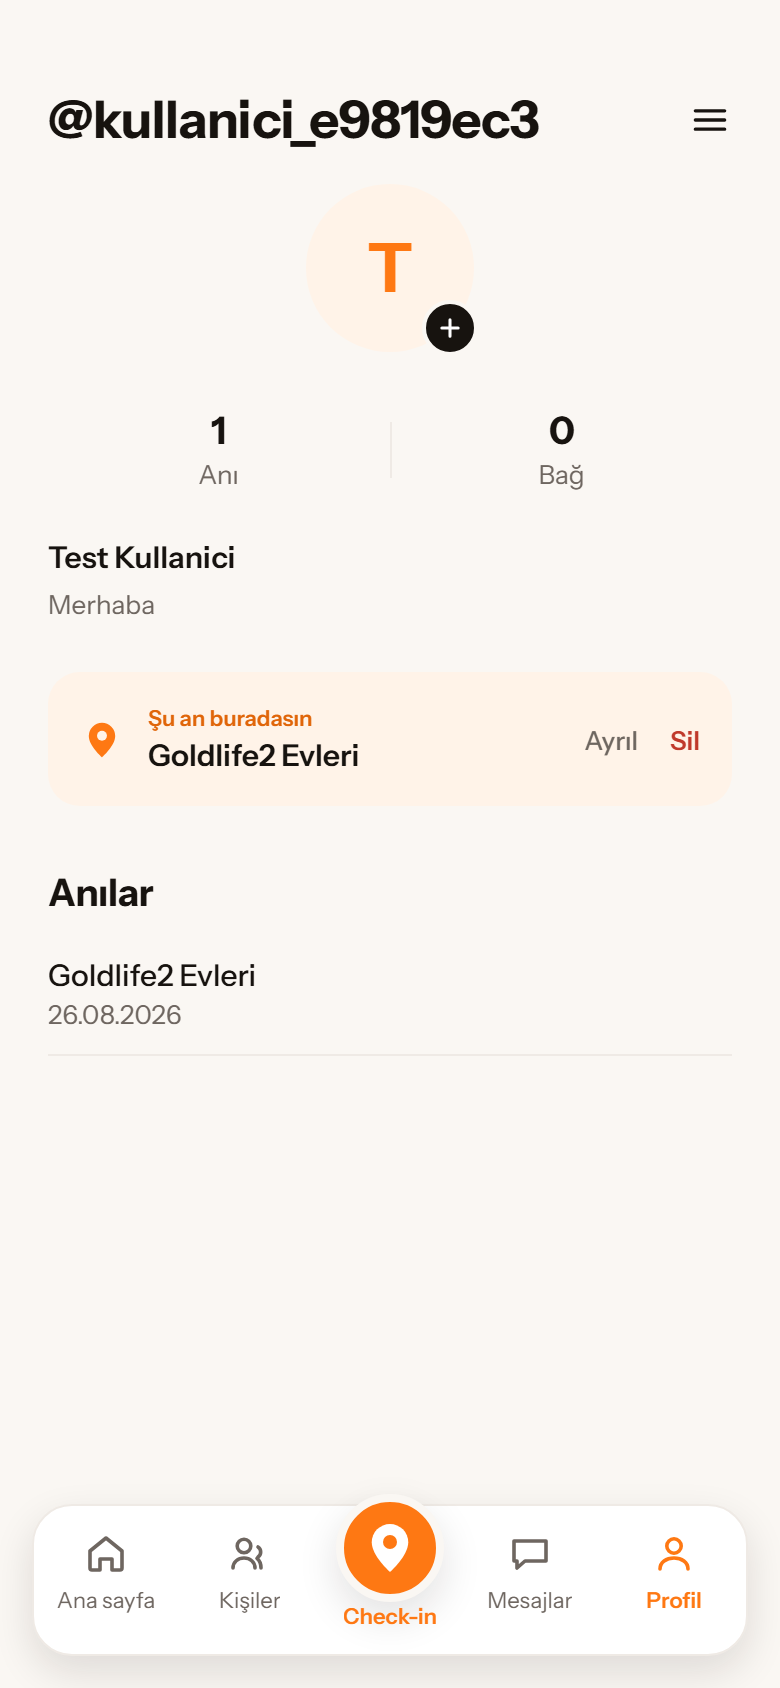
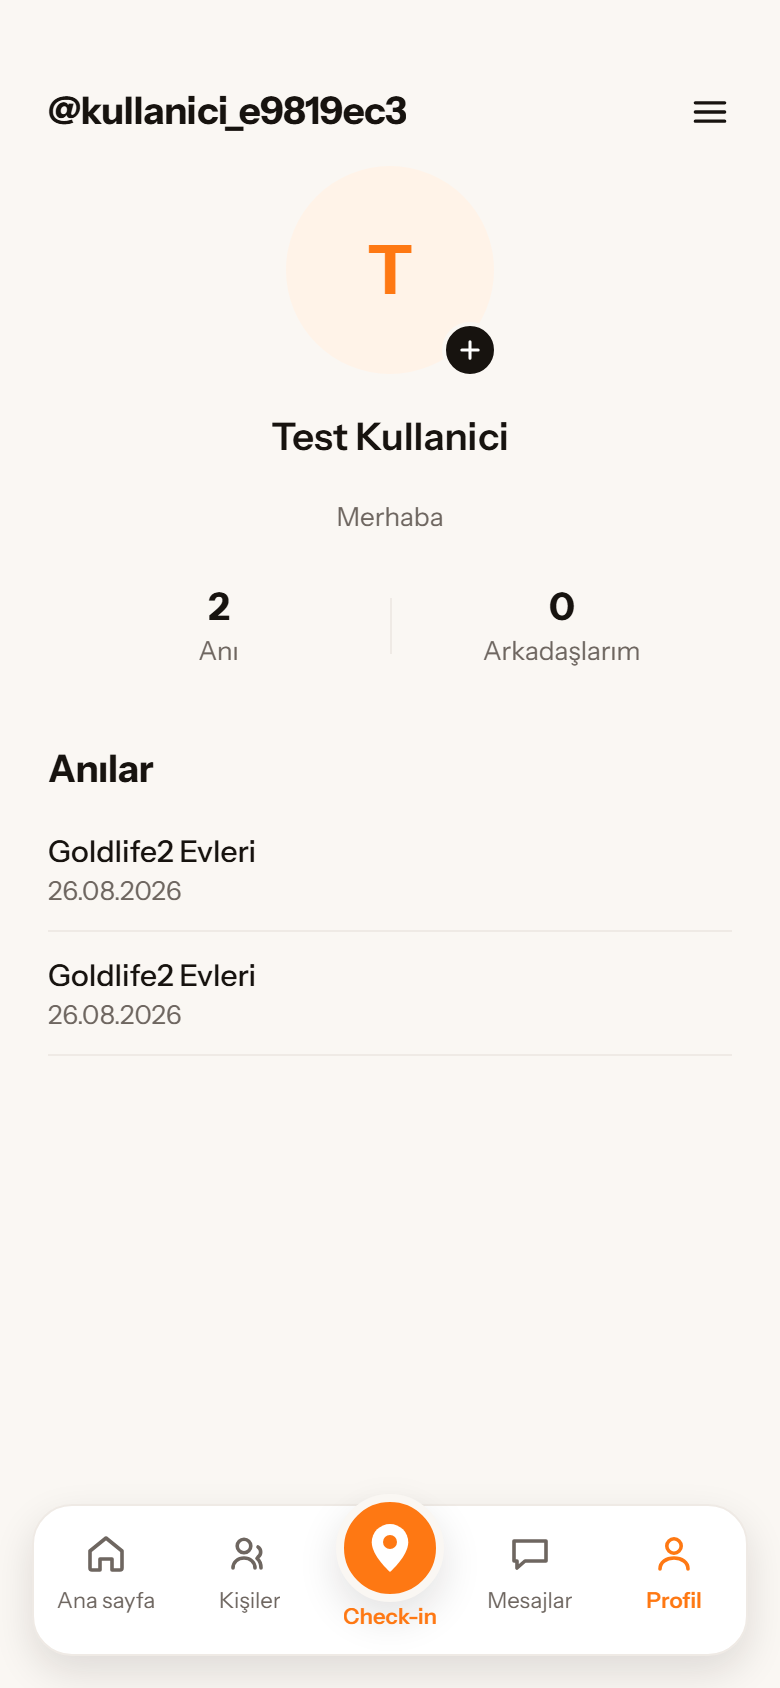
feat(profil): kimlik blogu yeniden duzenlendi
Kullanicinin istegi (2026-08-27):

- Ustteki @kullaniciadi KUCULDU (baslik -> altBaslik). Baslik
  boyutunda sayfanin en agir ogesiydi ve profil fotografiyla
  yarisiyordu.
- AVATAR BUYUDU (84 -> 104). Profilin capasi o.
- AD VE BIYOGRAFI avatarin hemen altina, ORTALI. Onceden sayilarin
  altinda ve sola dayaliydi.
- "Şu an bir yerde değilsin" KARTI KALDIRILDI. Check-in'e giris artik
  alt cubugun ortasindaki turuncu dugmede; profilde ikinci bir cagri
  gerekmiyordu. Canli check-in VARKEN serit yerinde duruyor -
  kaldirilan yalnizca bos durum karti.
- "Bağ" -> "Arkadaşlarım".

Test guncellendi: eski test bos durumdaki dugmeye basiyordu; yerine
"canli check-in yoksa hicbir serit ya da kart cizilmiyor" dogrulamasi
kondu.

Testler: jest 51 paket / 446 test yesil, tsc temiz, desen taramasi temiz.

diff --git a/mobil/src/app/profil/index.tsx b/mobil/src/app/profil/index.tsx
@@ -264,6 +264,12 @@ export default function ProfilEkrani() {
                 <Text style={stiller.fotografDurumu}>Yükleniyor…</Text>
               )}
 
+              {/* Ad ve biyografi AVATARIN HEMEN ALTINDA ve ortali
+                  (kullanicinin istegi 2026-08-27). Onceden sayilarin
+                  altinda ve sola dayaliydi. */}
+              <Text style={stiller.ad}>{profil.ad}</Text>
+              {profil.biyografi && <Text style={stiller.biyografi}>{profil.biyografi}</Text>}
+
               <View style={stiller.sayilar}>
                 <Pressable
                   style={stiller.sayiHucre}
@@ -285,8 +291,6 @@ export default function ProfilEkrani() {
               </View>
             </View>
 
-            <Text style={stiller.ad}>{profil.ad}</Text>
-            {profil.biyografi && <Text style={stiller.biyografi}>{profil.biyografi}</Text>}
 
             {aktifCheckIn ? (
               <>
@@ -333,20 +337,7 @@ export default function ProfilEkrani() {
                 </View>
               )}
               </>
-            ) : (
-              <View style={stiller.kart}>
-                <Text style={stiller.kartBaslik}>{t('profil.bosCanliBaslik')}</Text>
-                <Text style={stiller.kartAciklama}>{t('profil.bosCanliAciklama')}</Text>
-                {/* Sayfanin tek birincil turuncu eylemi. */}
-                <Pressable
-                  style={stiller.birincil}
-                  onPress={() => router.push('/mekanlar')}
-                  accessibilityRole="button"
-                >
-                  <Text style={stiller.birincilYazi}>{t('profil.checkInYap')}</Text>
-                </Pressable>
-              </View>
-            )}
+            ) : null}
 
             <View style={stiller.bolumBasligi}>
               <Text style={stiller.bolumAd} accessibilityRole="header">
@@ -443,9 +434,11 @@ const stiller = StyleSheet.create({
   kullaniciAdi: {
     flexShrink: 1,
     fontFamily: yazi.ekranBasligi,
-    fontSize: olcek.baslik,
+    // Kucultuldu (kullanicinin istegi 2026-08-27): baslik boyutunda
+    // sayfanin en agir ogesiydi ve profil fotografiyla yarisiyordu.
+    fontSize: olcek.altBaslik,
     color: renk.metin,
-    letterSpacing: -0.4,
+    letterSpacing: -0.3,
   },
 
   hata: {
@@ -480,7 +473,8 @@ const stiller = StyleSheet.create({
     fontSize: olcek.minik,
     color: renk.metinIkincil,
   },
-  avatar: { width: 84, height: 84, borderRadius: 42 },
+  // Buyutuldu (kullanicinin istegi 2026-08-27): profilin capasi bu.
+  avatar: { width: 104, height: 104, borderRadius: 52 },
   avatarYok: {
     backgroundColor: renk.turuncuZemin,
     alignItems: 'center',
@@ -510,16 +504,17 @@ const stiller = StyleSheet.create({
 
   ad: {
     fontFamily: yazi.govdeKalin,
-    fontSize: olcek.govde,
+    fontSize: olcek.altBaslik,
     color: renk.metin,
-    marginTop: bosluk.l,
+    textAlign: 'center',
   },
   biyografi: {
     fontFamily: yazi.govde,
     fontSize: olcek.kucuk,
     lineHeight: 20,
     color: renk.metinIkincil,
-    marginTop: bosluk.xs,
+    textAlign: 'center',
+    marginTop: 2,
   },
 
   // Canli serit: ekranin imza ogesi. Turuncu nokta "su an oluyor" der.

diff --git a/mobil/__tests__/ekranlar/profil/index.test.tsx b/mobil/__tests__/ekranlar/profil/index.test.tsx
@@ -81,7 +81,7 @@ describe('ProfilEkrani', () => {
     expect(await screen.findByText('2')).toBeTruthy()
     expect(screen.getByText('Anı')).toBeTruthy()
     expect(screen.getByText('1')).toBeTruthy()
-    expect(screen.getByText('Bağ')).toBeTruthy()
+    expect(screen.getByText('Arkadaşlarım')).toBeTruthy()
   })
 
   it('canli check-in varsa mekan adiyla serit gosterir', async () => {
@@ -103,12 +103,16 @@ describe('ProfilEkrani', () => {
     expect(screen.getByText('Kordon')).toBeTruthy()
   })
 
-  it('canli check-in yoksa check-in yapmaya yonlendirir', async () => {
+  it('canli check-in yoksa profilde HICBIR serit ya da kart cizilmiyor', async () => {
+    // "Su an bir yerde degilsin" karti kaldirildi (kullanicinin karari
+    // 2026-08-27). Check-in'e giris artik alt cubugun ortasindaki
+    // turuncu dugmede; profilde ikinci bir cagri gerekmiyor.
     await render(<ProfilEkrani />)
+    await screen.findByText('Anılar')
 
-    expect(await screen.findByText('Şu an bir yerde değilsin')).toBeTruthy()
-    fireEvent.press(screen.getByText('Bir yere check-in yap'))
-    expect(mockRouterPush).toHaveBeenCalledWith('/mekanlar')
+    expect(screen.queryByText('Şu an bir yerde değilsin')).toBeNull()
+    expect(screen.queryByText('Bir yere check-in yap')).toBeNull()
+    expect(screen.queryByText('Şu an buradasın')).toBeNull()
   })
 
   it('ayril basilinca check-inden cikar ve serit kaybolur', async () => {

diff --git a/mobil/lib/ceviriler/tr.ts b/mobil/lib/ceviriler/tr.ts
@@ -247,7 +247,7 @@ export default {
   profil: {
     ayarlar: 'Ayarlar',
     aniSayisi: 'Anı',
-    bagSayisi: 'Bağ',
+    bagSayisi: 'Arkadaşlarım',
     canliEtiket: 'Şu an buradasın',
     ayril: 'Ayrıl',
     canliSil: 'Sil',
